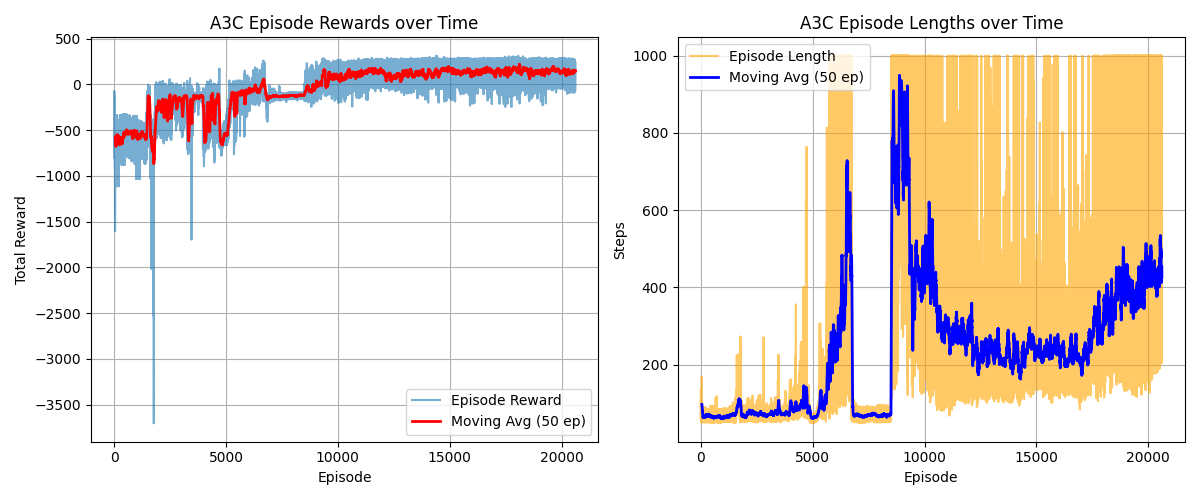
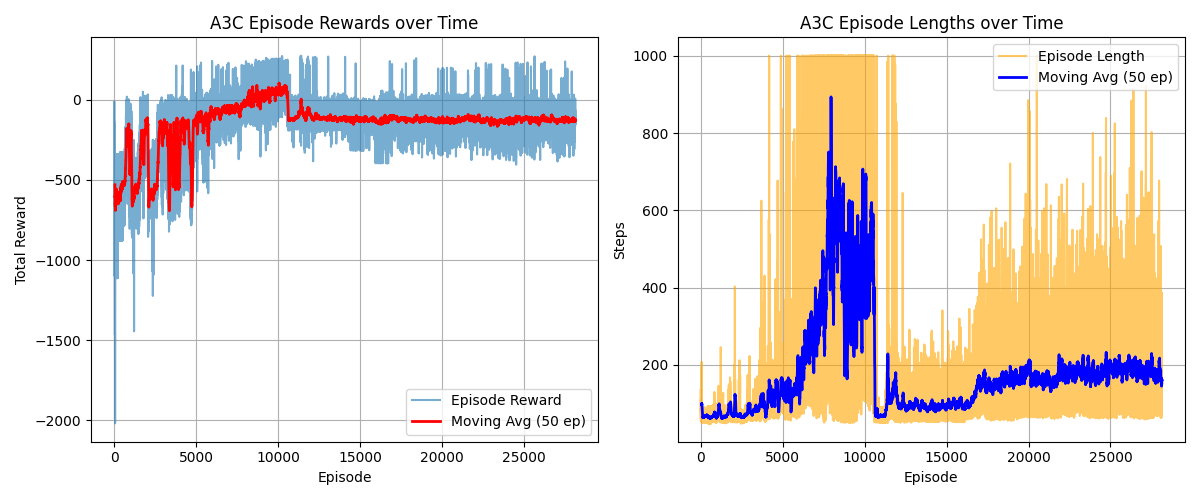
Lunar Lander 147 best

diff --git a/A3C/settings.py b/A3C/settings.py
@@ -3,7 +3,7 @@ import torch.multiprocessing as mp # Use torch multiprocessing
 # Environment configuration
 # Choose either "CartPole-v1" or "LunarLander-v3"
 # NOTE: For LunarLander-v3, you need to install Box2D: pip install "gymnasium[box2d]"
-ENV_NAME = "CartPole-v1"  # Change to "LunarLander-v3" if desired (requires Box2D installation)
+ENV_NAME = "LunarLander-v3"  # Change to "LunarLander-v3" if desired (requires Box2D installation)
 
 # Environment-specific parameters
 if ENV_NAME == "CartPole-v1":
@@ -31,12 +31,12 @@ elif ENV_NAME == "LunarLander-v3":
     #     action_space_type = "continuous"
     # --- Hyperparameter Setup ---
     GAMMA_A3C = 0.99             # Discount factor
-    LR_A3C = 8e-4                # Higher learning rate for faster learning
+    LR_A3C = 3e-4                # Higher learning rate for faster learning
     N_STEPS = 20                 # Longer rollouts for better credit assignment
     VALUE_LOSS_COEFF_A3C = 1.0   # Higher value loss coefficient for better bootstrapping
     ENTROPY_COEFF_A3C = 0.01    # Lower entropy coefficient for less random exploration
     MAX_GLOBAL_STEPS_A3C = 5000000  # More training steps needed for complex environment
-    MAX_STEPS_PER_EPISODE_A3C = 10000
+    MAX_STEPS_PER_EPISODE_A3C = 1000
 
     # --- Environment Arguments --
     ARGS = {"continuous":False, 

diff --git a/A3C/Worker.py b/A3C/Worker.py
@@ -203,7 +203,7 @@ def worker(worker_id: int,
             # TODO: maybe decay entropy only for some envs?
             progress_ratio = current_global_step / max_global_steps
             # Linearly decay entropy coefficient (e.g. from ENTROPY_COEFF to 0.001)
-            entropy_coeff_now = entropy_coeff # max(entropy_coeff * (1.0 - progress_ratio), ENTROPY_MIN)
+            entropy_coeff_now =  max(entropy_coeff * (1.0 - progress_ratio), ENTROPY_MIN)
 
             # Combined loss
             total_loss = policy_loss + value_loss_coeff * value_loss + entropy_coeff_now * entropy_loss
@@ -237,7 +237,7 @@ def worker(worker_id: int,
             # Apply the gradients using the shared optimizer (updates global model)
             global_optimizer.step()
             for param_group in global_optimizer.param_groups:
-                param_group["lr"] = LR_A3C * 1 # max((1.0 - progress_ratio), 0.001)
+                param_group["lr"] = LR_A3C * max((1.0 - progress_ratio), 0.001)
 
             # Check if max global steps reached after update
             if global_counter.value >= max_global_steps and not stop_event.is_set():
